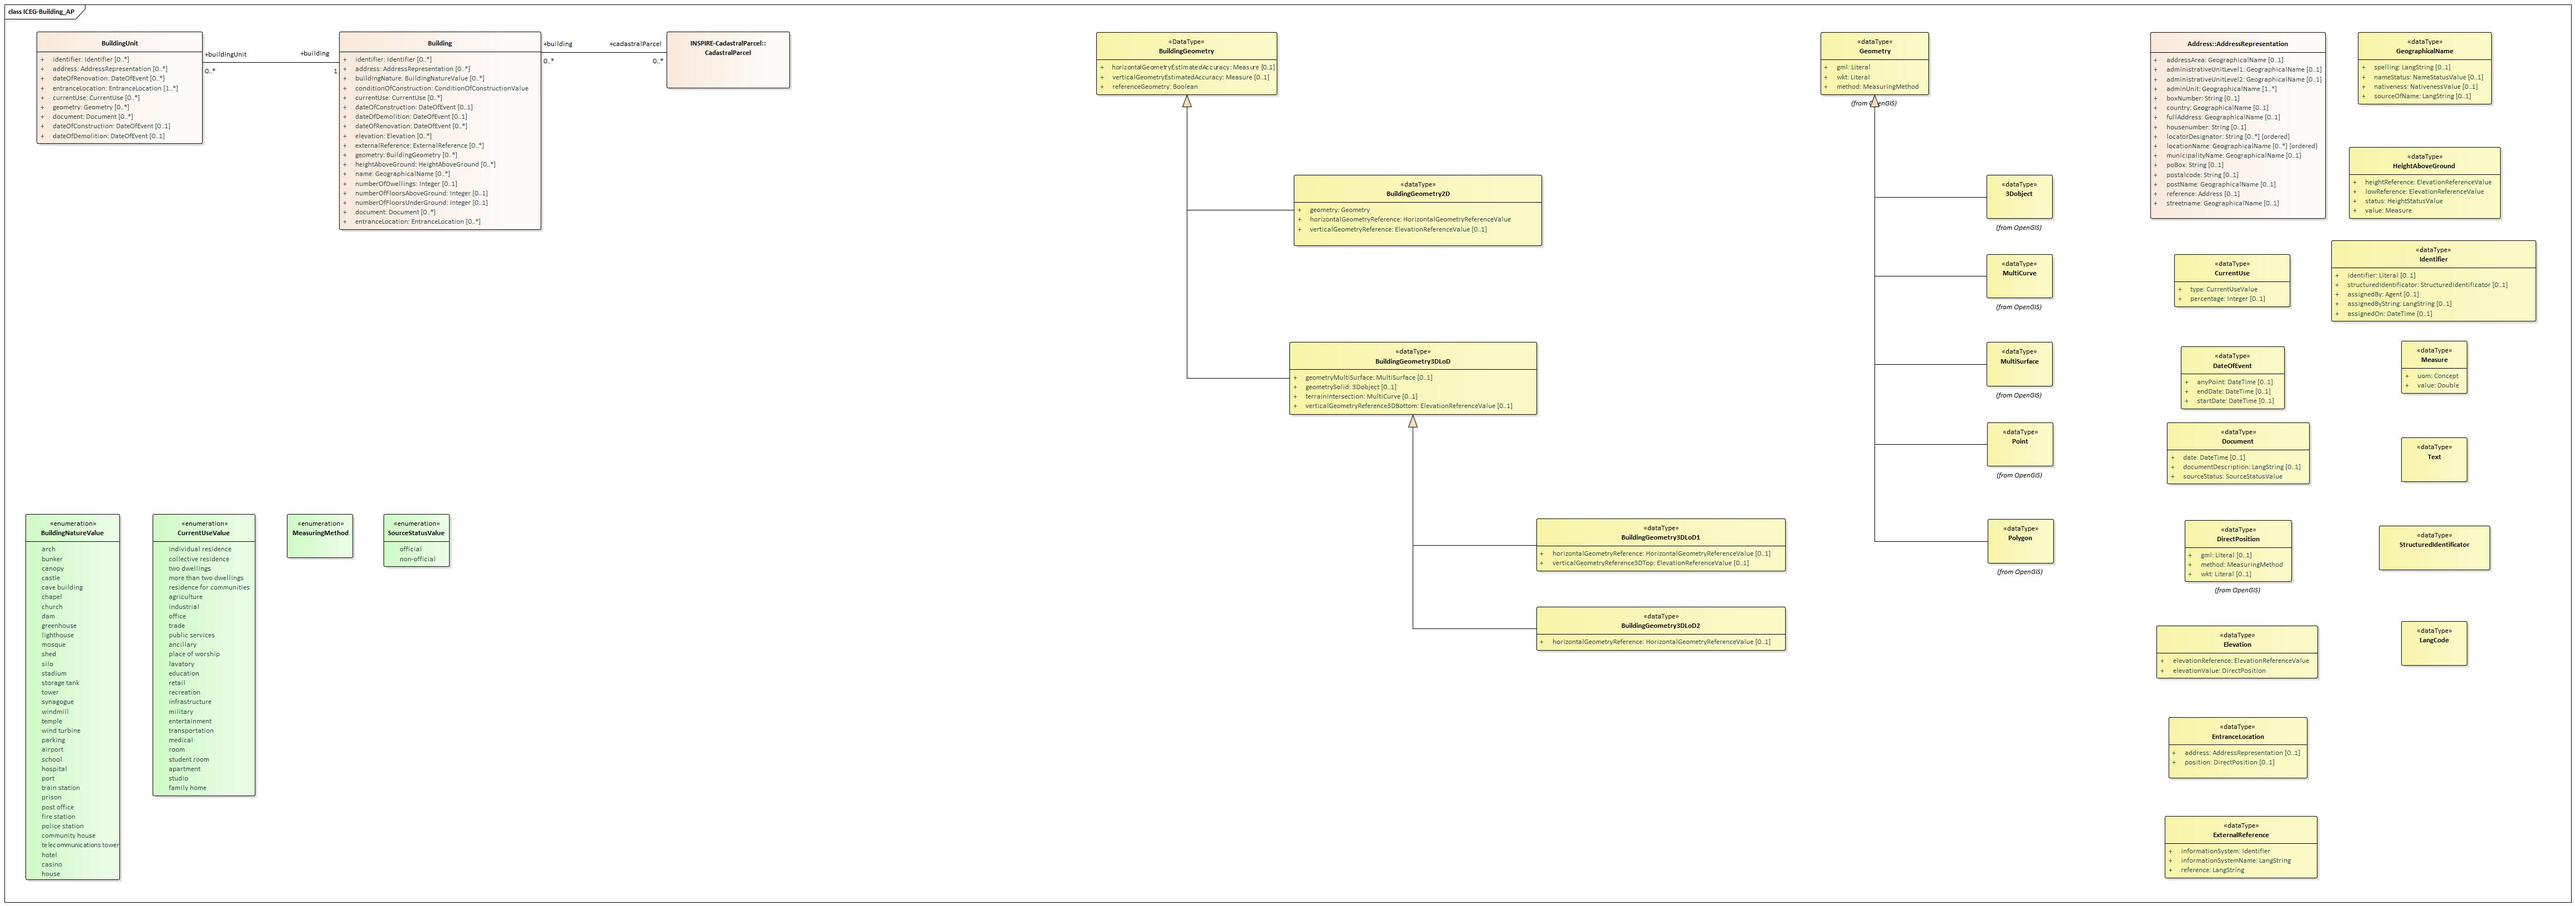
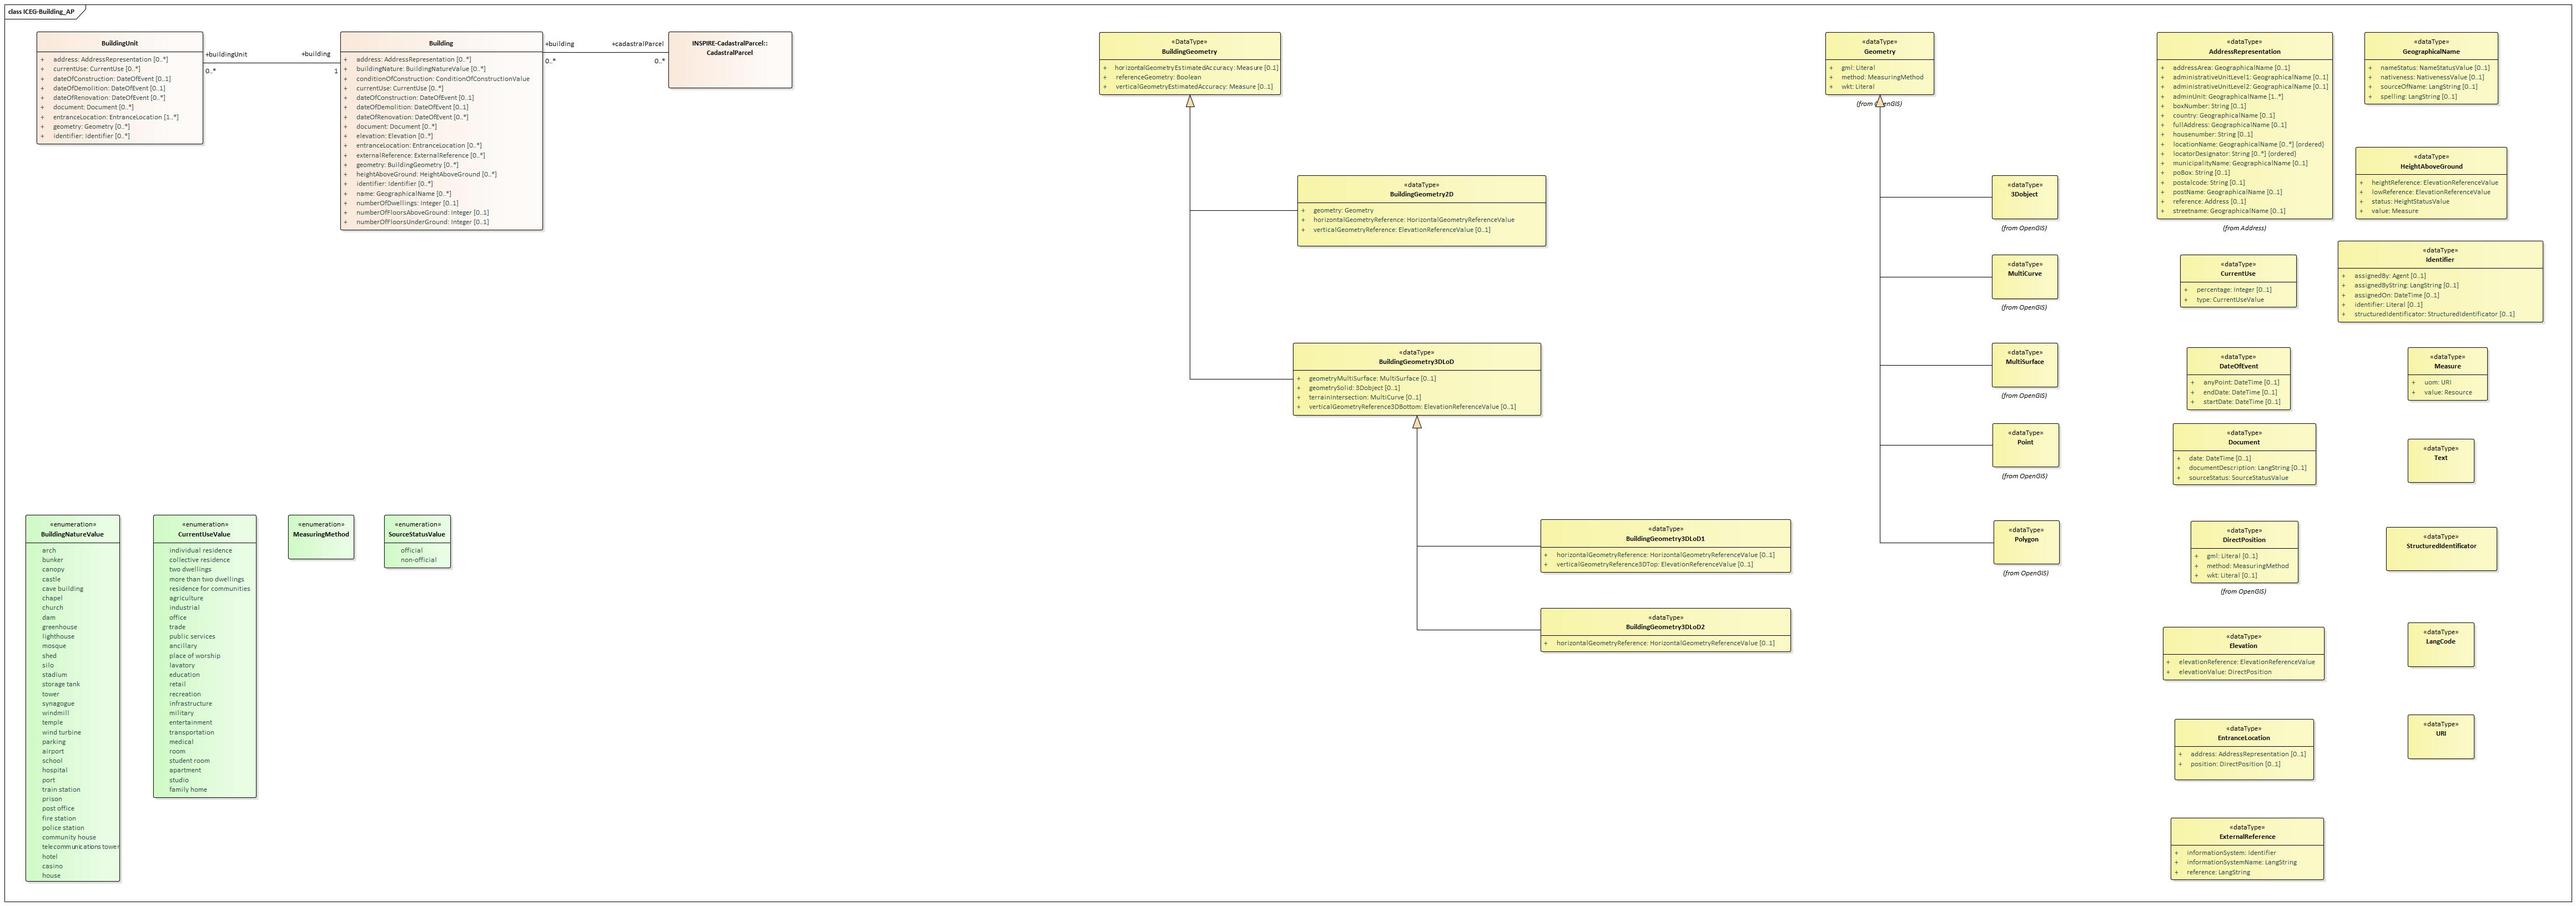
Update

diff --git a/models/building/index_en.html b/models/building/index_en.html
@@ -65,7 +65,7 @@
               <div class="head" role="status">
               <dl>
               <dt>Status</dt><dd>Public Review</dd>
-              <dt>Published at</dt><dd>2022-12-19</dd>
+              <dt>Published at</dt><dd>2023-01-20</dd>
               <dt>This version</dt><dd><a href="https://belgif.github.io/thematic/models/building/index_en.html">https://belgif.github.io/thematic/models/building/index_en.html</a><br></dd>
               
               
@@ -515,7 +515,7 @@
               <div class="head" role="metainfo" id="metainfo">
               <dl>
               <!--<dt>Source</dt><dd><br></dd>-->
-              <!--<dt>Changelog</dt><dd><a href="https://github.com/bertvannuffelen/semiceuthema/blob/614c64418652e4ae3ba11665db5ed29c79eaa513/CHANGELOG">https://github.com/bertvannuffelen/semiceuthema/blob/614c64418652e4ae3ba11665db5ed29c79eaa513/CHANGELOG</a></dd>-->
+              <!--<dt>Changelog</dt><dd><a href="https://github.com/bertvannuffelen/semiceuthema/blob/b119980a60be60b2c96819c4688ebd56de17deec/CHANGELOG">https://github.com/bertvannuffelen/semiceuthema/blob/b119980a60be60b2c96819c4688ebd56de17deec/CHANGELOG</a></dd>-->
               <dt>Feedback</dt><dd><a href="https://github.com/belgif/thematic/issues">https://github.com/belgif/thematic/issues</a></dd>
               <!--<dt>Registry of standards</dt><dd><a href="TODO">TODO</a></dd>-->
 
@@ -542,7 +542,7 @@
                 <h2 class="h2" aria-level="1" role="heading" id="h2_sotd">Status of this document</h2>
                 
                 <p>
-                  This model has the status of Public Review published on 2022-12-19.
+                  This model has the status of Public Review published on 2023-01-20.
 	        </p>
                 
               </section>
@@ -705,6 +705,7 @@
                     <p> This document describes the usage of the following datatypes for a correct usage of the Core Vocabulary:
                       <br />
                       |
+                      <a href="#"></a> |
                       <a href="#3Dobject">3Dobject</a> |
                       <a href="#AddressRepresentation">AddressRepresentation</a> |
                       <a href="#BuildingGeometry">BuildingGeometry</a> |
@@ -722,9 +723,9 @@
                       <a href="#GeographicalName">GeographicalName</a> |
                       <a href="#Geometry">Geometry</a> |
                       <a href="#HeightAboveGround">HeightAboveGround</a> |
+                      <a href="#ICEG-Unit">ICEG-Unit</a> |
                       <a href="#Identifier">Identifier</a> |
                       <a href="#LangCode">LangCode</a> |
-                      <a href="#Measure">Measure</a> |
                       <a href="#MultiCurve">MultiCurve</a> |
                       <a href="#MultiSurface">MultiSurface</a> |
                       <a href="#Point">Point</a> |
@@ -1513,6 +1514,24 @@ More information about the enumerations can be found on the INSPIRE <a href="htt
             
             <div class="region region--no-space-top">
               
+              <h3 class="h3" id=""><a href="http://www.w3.org/2001/XMLSchema#anyURI" data-toggle="tooltip" data-content="http://www.w3.org/2001/XMLSchema#anyURI" data-placement="right"></a></h3>
+	      
+                <div class="region region--no-space-top">
+                  <dl>
+                    <dt>Description</dt><dd></dd>
+                    
+		    
+                    <dt>Properties</dt>
+		    
+                    <dd>There are no properties defined for this datatype.</dd>
+                    
+                  </dl>
+                </div>
+		
+            </div>
+            
+            <div class="region region--no-space-top">
+              
               <h3 class="h3" id="3Dobject"><a href="http://www.opengis.net/ont/gml#Solid" data-toggle="tooltip" data-content="http://www.opengis.net/ont/gml#Solid" data-placement="right">3Dobject</a></h3>
 	      
                 <div class="region region--no-space-top">
@@ -1933,7 +1952,7 @@ More information about the enumerations can be found on the INSPIRE <a href="htt
                         <td>
                           
 			    
-			    <a href="#Measure" data-placement="right">Measure</a>
+			    <a href="#ICEG-Unit" data-placement="right">ICEG-Unit</a>
 			    
                           
                         </td>
@@ -1971,7 +1990,7 @@ More information about the enumerations can be found on the INSPIRE <a href="htt
                         <td>
                           
 			    
-			    <a href="#Measure" data-placement="right">Measure</a>
+			    <a href="#ICEG-Unit" data-placement="right">ICEG-Unit</a>
 			    
                           
                         </td>
@@ -3301,13 +3320,86 @@ Concepts of this codelist should be used from the INSPIRE <a href="http://inspir
                         <td>
                           
 			    
-			    <a href="#Measure" data-placement="right">Measure</a>
+			    <a href="#ICEG-Unit" data-placement="right">ICEG-Unit</a>
 			    
                           
                         </td>
 			<td>1</td>
                         <td property="rdfs:comment">Value of the height above ground.</td>
                         <td property="skos:scopeNote"></td>
+                        <td></td>
+                      </tr>
+                      
+                    </tbody>
+                  </table>
+                </div>
+                
+            </div>
+            
+            <div class="region region--no-space-top">
+              
+              <h3 class="h3" id="ICEG-Unit"><a href="http://def.isotc211.org/iso19103/2015/MeasureTypes#Measure" data-toggle="tooltip" data-content="http://def.isotc211.org/iso19103/2015/MeasureTypes#Measure" data-placement="right">ICEG-Unit</a></h3>
+	      
+                <div class="region region--no-space-top">
+                  <dl>
+                    <dt>Description</dt><dd>A representation of a unit.</dd>
+                    
+		    
+                    <dt>Properties</dt>
+		     
+                    <dd>we have defined the following properties for this datatype:
+                      <a href="#ICEG-Unit%3Auom">uom</a>, 
+                      <a href="#ICEG-Unit%3Avalue">value</a>.</dd>
+                    
+                  </dl>
+                </div>
+		 
+                <div class="u-table-overflow">
+                  <table class="data-table">
+                    <thead>
+                      <tr class="data-table__header">
+                        <th class="data-table__header-title--sortable data-table__header-title--sortable-active">Property</th>
+                        <th class="data-table__header-title--sortable">Expects Type</th>
+			<th class="data-table__header-title--sortable">Cardinality</th>
+                        <th class="data-table__header-title--sortable">Description</th>
+                        <th class="data-table__header-title--sortable">Usage</th>
+                        <th class="data-table__header-title--sortable">Codelist</th>
+                      </tr>
+                    </thead>
+
+                    <tbody class="supertype">
+                      
+                      <tr id="ICEG-Unit%3Auom" typeof="rdfs:Property" resource="http://vocab.belgif.be/ns/building#uom">
+                        <td>
+                          <code property="rdfs:label">
+                            <a href="http://vocab.belgif.be/ns/building#uom" data-toggle="tooltip" data-content="http://vocab.belgif.be/ns/building#uom" data-placement="right">uom</a>
+                          </code>
+                        </td>
+                        <td>
+                          
+			    
+			    <a href="#URI" data-placement="right">URI</a>
+			    
+                          
+                        </td>
+			<td>1</td>
+                        <td property="rdfs:comment">Standard units of measurements used when accounting for stock, and expressing them in quantities.</td>
+                        <td property="skos:scopeNote">Concepts of this codelist should be used from the EU Vocabulary <a href="https://op.europa.eu/en/web/eu-vocabularies/dataset/-/resource?uri=http://publications.europa.eu/resource/dataset/measurement-unit">Measurement unit</a>.</td>
+                        <td></td>
+                      </tr>
+                      
+                      <tr id="ICEG-Unit%3Avalue" typeof="rdfs:Property" resource="https://qudt.org/schema/qudt/value">
+                        <td>
+                          <code property="rdfs:label">
+                            <a href="https://qudt.org/schema/qudt/value" data-toggle="tooltip" data-content="https://qudt.org/schema/qudt/value" data-placement="right">value</a>
+                          </code>
+                        </td>
+                        <td>
+                          
+                        </td>
+			<td>1</td>
+                        <td property="rdfs:comment">Number with a scale. The value of uom (Units Of Measure) attribute is a reference to a Reference System for the amount, either a ratio or position scale.</td>
+                        <td property="skos:scopeNote">Both a codelist or qudt unit can be used</td>
                         <td></td>
                       </tr>
                       
@@ -3472,83 +3564,6 @@ Concepts of this codelist should be used from the INSPIRE <a href="http://inspir
                   </dl>
                 </div>
 		
-            </div>
-            
-            <div class="region region--no-space-top">
-              
-              <h3 class="h3" id="Measure"><a href="http://inspire.ec.europa.eu/ont/base#Measure" data-toggle="tooltip" data-content="http://inspire.ec.europa.eu/ont/base#Measure" data-placement="right">Measure</a></h3>
-	      
-                <div class="region region--no-space-top">
-                  <dl>
-                    <dt>Description</dt><dd>A representation of a measure value. The decimal value is followed by a space and the unit of the measure.</dd>
-                    
-		    
-                    <dt>Properties</dt>
-		     
-                    <dd>we have defined the following properties for this datatype:
-                      <a href="#Measure%3Auom">uom</a>, 
-                      <a href="#Measure%3Avalue">value</a>.</dd>
-                    
-                  </dl>
-                </div>
-		 
-                <div class="u-table-overflow">
-                  <table class="data-table">
-                    <thead>
-                      <tr class="data-table__header">
-                        <th class="data-table__header-title--sortable data-table__header-title--sortable-active">Property</th>
-                        <th class="data-table__header-title--sortable">Expects Type</th>
-			<th class="data-table__header-title--sortable">Cardinality</th>
-                        <th class="data-table__header-title--sortable">Description</th>
-                        <th class="data-table__header-title--sortable">Usage</th>
-                        <th class="data-table__header-title--sortable">Codelist</th>
-                      </tr>
-                    </thead>
-
-                    <tbody class="supertype">
-                      
-                      <tr id="Measure%3Auom" typeof="rdfs:Property" resource="http://vocab.belgif.be/ns/building#uom">
-                        <td>
-                          <code property="rdfs:label">
-                            <a href="http://vocab.belgif.be/ns/building#uom" data-toggle="tooltip" data-content="http://vocab.belgif.be/ns/building#uom" data-placement="right">uom</a>
-                          </code>
-                        </td>
-                        <td>
-                          
-			     
-			    <a href="http://www.w3.org/2004/02/skos/core#Concept" data-toggle="tooltip" data-content="http://www.w3.org/2004/02/skos/core#Concept" data-placement="right">Concept</a>
-                            
-                          
-                        </td>
-			<td>1</td>
-                        <td property="rdfs:comment">Standard units of measurements used when accounting for stock, and expressing them in quantities.</td>
-                        <td property="skos:scopeNote">Concepts of this codelist should be used from the EU Vocabulary <a href="https://op.europa.eu/en/web/eu-vocabularies/dataset/-/resource?uri=http://publications.europa.eu/resource/dataset/measurement-unit">Measurement unit</a>.</td>
-                        <td></td>
-                      </tr>
-                      
-                      <tr id="Measure%3Avalue" typeof="rdfs:Property" resource="https://qudt.org/schema/qudt/value">
-                        <td>
-                          <code property="rdfs:label">
-                            <a href="https://qudt.org/schema/qudt/value" data-toggle="tooltip" data-content="https://qudt.org/schema/qudt/value" data-placement="right">value</a>
-                          </code>
-                        </td>
-                        <td>
-                          
-			     
-			    <a href="http://www.w3.org/2001/XMLSchema#double" data-toggle="tooltip" data-content="http://www.w3.org/2001/XMLSchema#double" data-placement="right">Double</a>
-                            
-                          
-                        </td>
-			<td>1</td>
-                        <td property="rdfs:comment">Number with a scale. The value of uom (Units Of Measure) attribute is a reference to a Reference System for the amount, either a ratio or position scale.</td>
-                        <td property="skos:scopeNote"></td>
-                        <td></td>
-                      </tr>
-                      
-                    </tbody>
-                  </table>
-                </div>
-                
             </div>
             
             <div class="region region--no-space-top">
